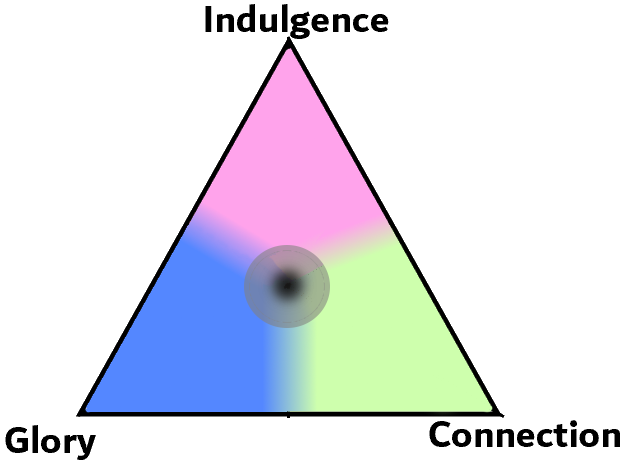
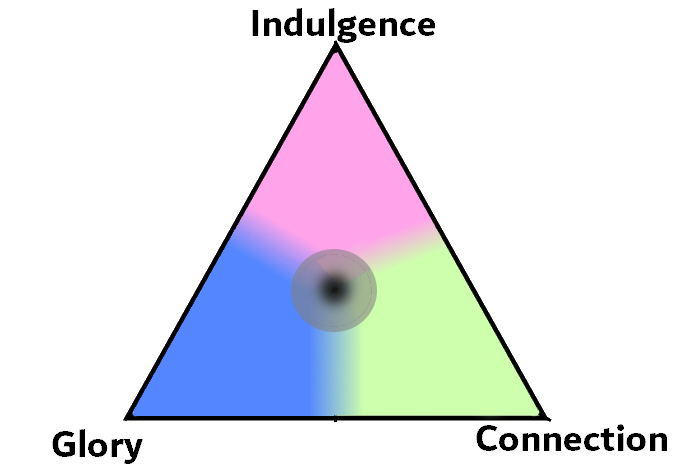
Blog edits, image additions.

Changed region(s): [[0.0, 0.0, 1.0, 0.9978]]

diff --git a/docs/noteworthy.html b/docs/noteworthy.html
@@ -47,7 +47,8 @@ comments: false
 
 <a class="highlight-card" href="http://dmo.github.com/HVM/">
   <h3 class="highlight-item-title">Stumbled Upon HVM...</h3>
-  <p class="highlight-item-description">These may look like hieroglyphics right now, but trust when I say you'll want to understand them eventually.</p>
+  <img class="highlight-image" src="/assets/img/succ-combinator.jpg" alt="Interaction Net of Succesor using I-Combinators">
+  <p class="highlight-item-description">These may look like hieroglyphics right now, but trust when I say you'll want to understand them eventually, CS-doers!</p>
 </a>
 
 <a class="highlight-card" href="http://dmo.github.com/projects/Student_Projects/student_proj/">

diff --git a/docs/_sass/klise/_layout.scss b/docs/_sass/klise/_layout.scss
@@ -216,11 +216,13 @@
   }
 
   .author-name {
+    font-family: $mono-family;
     font-size: 1.7em;
     margin-bottom: 2px;
   }
 
   .author-bio {
+    font-family: $mono-family;
     margin: 0 auto;
     opacity: 0.9;
     max-width: 393px;

diff --git a/docs/_posts/HVM/2025-08-20-HVM.md b/docs/_posts/HVM/2025-08-20-HVM.md
@@ -1,78 +1,45 @@
 ---
 layout: post
-title: "HVM, Interaction Combinators, and Symbolic AI: A New Obsession"
+title: "Data Driving"
 date: 2025-08-20 01:00 +0700
 #modified: 2020-03-03 16:49:47 +07:00
-tags: [AI, Symbolic, Learning, Jargon]
-description: Data-Driven AI is creating their magnum opus, but a new set of discoveries may soon put symbolic AI back in people's visions of future thinking machines.
+tags: [AI, Data-Driven, Jargon]
+description: Data-Driven AI is creating their magnum opus, but according to Altman himself, there is a bubble ready to burst.
 image: 
 ---
 
-As of writing, GPT5 had finally been released. Before its release, a great many theorized about its future capabilities, of the jobs that would be on the line and the bright future we were headed to. Sam Altman even had the confidence to post a photo of the death star looming over a planet, no doubt alluding to what was to come. Instead, OpenAI’s newest iteration was more about lowering costs, consolidating resources and shifting its personality, not terribly unfamiliar to its GPT 4.5 release. Modest improvements for each paying user, at most, and a terrific letdown by a great many. 
-	It’s not OpenAI’s fault. It’s not Meta’s fault, it’s not even the scientists working at the company’s fault. Ultimately, it’s the very nature of data-driven models.
-	Time to get a bit technical.
-(image)
-	Data driven models are, by the name suggests, trained off of data. With machine learning as a whole, the concept is that given properly labelled data, that patterns and trends in any set of data invisible (or visible) to the human eye and mind can be identified and used to predict future datapoints, assuming there exists patterns and trends to latch onto. More technically, these systems operate by optimizing mathematical functions (specifically loss functions) over billions or even trillions of examples. A neural network is adjusted via gradient descent until it produces outputs that best fit the input/output relationships found in its training data. 
+# Driving with Data
+As of writing, GPT5 had finally been released. Before this day, a great many theorized about its future capabilities, of the jobs that would be on the line and the bright future we were headed to. Sam Altman even had the confidence to post a photo of the death star looming over a planet, no doubt alluding to what was to come. Instead, OpenAI’s newest iteration was more about lowering costs, consolidating resources and shifting its personality, not terribly unfamiliar to its GPT 4.5 release. Modest improvements for each paying user, at most, and a terrific letdown by a great many. 
+
+![alt text](/assets/img/samastar.png)
+> I'd be lying if I said I wasn't excited to see what would come next as well. It truly is rare to have products generate anticipation in so many consumers!
+
+It’s not OpenAI’s fault. It’s not Meta’s fault, it’s not even the scientists working at the company’s fault. Ultimately, it’s the very nature of data-driven models.
+Time to get a bit technical.
+
+Data driven models are, by the name suggests, trained off of data. With machine learning as a whole, the concept is that given properly labelled data, that patterns and trends in any set of data invisible (or visible) to the human eye and mind can be identified and used to predict future datapoints, assuming there exists patterns and trends to latch onto. More technically, these systems operate by optimizing mathematical functions (specifically loss functions) over billions or even trillions of examples. A neural network is adjusted via gradient descent until it produces outputs that best fit the input/output relationships found in its training data. 
+
 Large Language Models (LLMs for short) are not much different. Transformers operate via sequential layers of attention mechanisms that determine which parts of the input data should influence which parts of the output^1.Rather than learning explicit rules about language, they learn statistical relationships between tokens—essentially, which words are likely to follow which other words, conditioned on context. It was a hunch that with sufficient scale, LLMs could learn enough to approximate what it means to reason and potentially transcend its own data, much like machine learning models attempt to, but pattern matching upon thought itself. 
-I do not believe there is a hard rule in the universe that suggests that one cannot inductively determine what a deductive or abductive mind would do in any given scenario. What is difficult is if you need training data, labelled or unlabelled, to do so. At its theoretical limits, an unassisted Large Language Model can only excel at what it has been trained to predict. This does not mean it cannot generate novel thoughts or sentences. Nor that it will not replace a great deal of our manual and intellectual labor. But in a meta-way, it cannot generalize.
-I will pos one example, a philosophical analysis and perhaps studies that conduct a more sophisticated test of these claims. But imagine you need to determine how to wash a strange dish. It is shaped like a square, but with two small square shaped holes parallel to each other on opposite sides. The item has a hollow shell and tends to have things trapped inside from the fish tank you pulled it out of. The holes are big enough to pass a teaspoon through, but not a tablespoon. How would one go about cleaning this?
+
+I do not believe there is a hard rule in the universe that suggests that one cannot inductively determine what a deductive or abductive mind would do in any given scenario. What is difficult is if you need training data, labelled or unlabelled, to do so. At its theoretical limits, an unassisted Large Language Model can only excel at what it has been trained to predict. This does not mean it cannot generate novel thoughts or sentences. Nor that it will not replace a great deal of our manual and intellectual labor. But in an important, and more physical than philosophical way, it cannot generalize.
+
+## Square Hole; Data-Driven Peg
+
+I will pose one example, a philosophical analysis and perhaps studies that conduct a more sophisticated test of these claims. But imagine you need to determine how to wash a strange dish. It is shaped like a square, but with two small square shaped holes parallel to each other on opposite sides. The item has a hollow shell and tends to have things trapped inside from the fish tank you pulled it out of. The holes are big enough to pass a teaspoon through, but not a tablespoon. How would one go about cleaning this?
 An LLM would actually have no problem answering this question. Such a scenario is not particularly unique; cleaning unorthodox objects is a notorious complication in industry and home life. But what about a transformer-trained robot? And why would these two be different?
 
-Square Hole; Data-Driven Peg
-	In order to determine how to clean a peculiar object, you must know what it means to clean an object. This technically depends on the individual and scenario; many believe that water and friction are good enough for many scenarios. So long as no particulates are visible, the dish is cleaned. The gold standard in households is soap and water, but more disaster states sometimes require bleach or other hard chemicals. For a fish tank, hard chemicals are ill-advised if it is to return to a fish tank, opting for vinegar and water.
+In order to determine how to clean a peculiar object, you must know what it means to clean an object. This technically depends on the individual and scenario; many believe that water and friction are good enough for many scenarios. So long as no particulates are visible, the dish is cleaned. The gold standard in households is soap and water, but more disaster states sometimes require bleach or other hard chemicals. For a fish tank, hard chemicals are ill-advised if it is to return to a fish tank, opting for vinegar and water.
 
 Now, ChatGPT has quite the advantage here. Ultimately, the solution for problems like these exist across the net. For the robot, these are maneuvers that may never have occurred before, or with the context of this object. Which means any data-driven model attempting to solve this has to either:
-Learn what it means to clean objects
-Be taught what it means to clean this object.
+- Learn what it means to clean objects
+- Be taught what it means to clean this object.
 
 The former is a general pattern match and rule-based conceptual system of dishwashing that suggests the model has not confused the forest for the trees, and that dishwashing is a thing it fully understands, with or without specific examples.
+
 The latter suggests its neurons fizzle out on sufficiently unique cases, having only learned the similarities between scenarios of washing dishes, rather than its conceptual foundation and requires more examples to learn.
-	As I currently understand it, there is no reason that scenario 1 cannot occur. It is hard to wrap one’s head around and we don’t have the right architecture yet, but it could be possible. LLMs specifically have not accomplished this yet, this is certain. This is most clear with mathematics, as the rules are foundational enough for calculators to never fail, but even accounting for statistical variance of LLMs, it is clear that the abstract concept of arithmetic has not been derived through training alone. The same pattern appears in domains like storytelling or humor, where LLMs can imitate surface forms but often lack the deep coherence or self-reflection that true conceptual mastery would produce. Robots built off of transformers today will fail to clean a great many dishes.
-	Put simply, LLMs, by their nature, fail at two particular tasks: deduction and abduction, something us humans can accomplish rather plainly and effectively. These resources describe them in great detail, but without them: they are defined as the propensity to follow a rule-based logic system to derive facts, and an ability to generate probable post-hoc rationalizations for a given scenario, respectively. The consequences of such are better elaborated here, but I digress. If we grant that this is both a big deal, and currently unsolved, what do I pose? The better question is what have I discovered…
+
+As I currently understand it, there is no reason that scenario 1 cannot occur. It is hard to wrap one’s head around and we don’t have the right architecture yet, but it could be possible. LLMs specifically have not accomplished this yet, this is certain. This is most clear with mathematics, as the rules are foundational enough for calculators to never fail, but even accounting for statistical variance of LLMs, it is clear that the abstract concept of arithmetic has not been derived through training alone. The same pattern appears in domains like storytelling or humor, where LLMs can imitate surface forms but often lack the deep coherence or self-reflection that true conceptual mastery would produce. Robots built off of transformers today will fail to clean a great many dishes.
+
+Put simply, LLMs, by their nature, fail at two particular tasks: deduction and abduction, something us humans can accomplish rather plainly and effectively. These resources describe them in great detail, but without them: they are defined as the propensity to follow a rule-based logic system to derive facts, and an ability to generate probable post-hoc rationalizations for a given scenario, respectively. The consequences of such are better elaborated here, but I digress. If we grant that this is both a big deal, and currently unsolved, what do I pose? [The better question is what have I discovered…]()
 	
 
-Realization
-Computers and computation have been a series of discoveries compared to magic in fantasy worlds, with how much we have changed our lives by them, and how it continues to elude us. If we divide how we go about computing, it would likely look like this chart.
-
-Physical Layer
-Low Level Representation
-Computation Models
-Computer Programming
-Systems & Applications
-
-
-Formal computation models had an optimal computation method for decades that have gone under-utilized: interaction networks. Until recently, there have been few, if any, proper implementations that avoided tremendous overhead. A man in Brazil who calls himself Victor Taelin implemented a virtual machine that limited overhead and allowed for the optimal properties to shine, known as Higher Order Virtual Machine.  
-
-Toying around with the tool gave me some extremely valuable insights, and an understanding of why Higher Order Co, and arguably every autonomous AI company, finds Interaction networks so powerful. 
-
-Without knowing everything there is to know, the main innovations of note are an alternative to lambda calculus that allows for inherent memoization of all computations to never share work, and superpositions, which allows for an input to exist as two states simultaneously, achieving the work of both on call. 
-
-Let’s look at some toy examples.
-The NAND Gate Synthesizer 
-Image
-This program is an automatic circuit builder. It takes a target circuit, tries every possible arrangement, tests them all, and returns the first circuit that works exactly the same as the target. 
-
-More concretely, a visual:
-
-IN0,IN1 and IN2 all represent an input, arriving from either another NAND gate or x and y. Any input represents either a 0 or a 1. The main idea is to have x and y static, representing a zero or a 1, and with both inserted into static positions of any generated circuit containing combinations of logic gates (in this case NAND), will provide an output of 0 or 1 with a dedicated truth table.
-
-
-We want a circuit that, with minimal gates, accomplishes this configuration. Depending on the allowed depth , solving this problem can be rather prohibitive. Why? Because the search space grows explosively. After all, something like this would grow at a rate of n^2 variables per gate, with at most 2 additional gates per gate. Depth limit prohibits this from going off the deep end.
-
-(Image)
-To be clear, enumerating all of the solutions would be infinite with many, many redundant solutions. Normally, in, say, Haskell, preventing the duplication of solutions requires quite a fair amount of overhead and communication. Not to mention that much of the same work could be duplicated through each enumeration. State of the art solutions, depending on the level of complexity allowable, bypasses this through clever SAT/SMT solutions to limit redundancy and cut down on the space of potential answers efficiently. 
-But with Interaction Combinators, both processes are inherent in its architecture.
-Below is an implementation that provides a solution in x seconds with a maximum depth of y in Haskell. It utilizes basic memoization methods, reusing whatever sub-expressions it can without using a SAT.
-
-Here is a SAT solution stats with the same conditions
-(Image)
-And here is HVM, or the I-Net solution.
-(Image)
-	
-The code for this program is supplied in my github, written directly into HVM. 
-
-Imagine HVM as this NAND gate system. Imagine the electricity flowing through each node, to get to the end (or not when cut off). HVM’s architecture is much like it, ultimately: when a program is developed, a graph of all of the functions and used variable is created, and when one function utilizes pieces of another, or a variable used once before, it travels through the same set of nodes, automatically memoizing the process without much of any legwork. And when dimensions of answers need to be eliminated or a graph has run its course, an ‘Erase’ node is introduced, causing the graph to never traverse the path again. This has the same effect as eliminating redundancy through SATs, but inherent in the computation method. This, by definition of Turing Completeness, is indeed possible in lambda calculus, but with far more overhead, as shown in the runtimes and the need for SATs, also by definition. This is why HVM beats any other tool in runtimes. The more complex the problem, the more easily HVM and future tools like it will win out.
-
-	If another example for enumeration and heuristic search is desired, I wrote up a knapsack solver in HVM as well, with impressive runtimes. It does not beat SOTA, since they tend to use various tricks to solve this problem, but an equivalently complex solution properly utilizing HVM’s superpositions and inherent memoization will theoretically surpass it as well.
-
-The potential for computation models like HVM to aid AI planning, theorem proving, and heuristic search appears substantial. Most interesting to me is how these properties potentially make it easier to construct complex reasoning systems without the heavy engineering effort of prior. My broader question is whether the same principles can help us build symbolic AI systems that match or complement data-driven models in flexibility and speed. I personally suspect so, and had thus marked my infatuation with a particular niche of computer science.

diff --git a/docs/_projects/Sym_Knack/HVM_Knack_Circc.md b/docs/_projects/Sym_Knack/HVM_Knack_Circc.md
@@ -1,0 +1,60 @@
+---
+layout: post
+title: "[WIP] HVM, Interaction Combinators, and Symbolic AI"
+date: 2025-08-21 01:00 +0700
+#modified: 2020-03-03 16:49:47 +07:00
+tags: [AI, Symbolic, Learning, Jargon]
+description: Data-Driven AI is creating their magnum opus, but a new set of discoveries may soon put symbolic AI back in people's visions of future thinking machines.
+image: "/assets/img/succ-combinator.jpg"
+---
+
+
+# Realization
+Computers and computation have been a series of discoveries compared to magic in fantasy worlds with how much we have changed our lives by them, and how its true inner workings continues to elude us. If we divide how we go about computing, it would likely look like this:
+
+- Physical Layer
+- Low Level Representation
+- Computation Models
+- Computer Programming
+- Systems & Applications
+
+
+Formal computation models had an optimal computation method for decades that have gone under-utilized: interaction networks. Until recently, there have been few, if any, proper implementations that avoided tremendous overhead. A man in Brazil who calls himself Victor Taelin implemented a virtual machine that limited overhead and allowed for the optimal properties to shine, known as Higher Order Virtual Machine.  
+
+Toying around with the tool gave me some extremely valuable insights, and an understanding of why Higher Order Co, and arguably every autonomous AI company, finds Interaction networks so powerful. 
+
+Without knowing everything there is to know, the main innovations of note are an alternative to lambda calculus that allows for inherent memoization of all computations to never share work, and superpositions, which allows for an input to exist as two states simultaneously, achieving the work of both on call. 
+
+Let’s look at some toy examples.
+
+# The NAND Gate Synthesizer 
+Image
+This program is an automatic circuit builder. It takes a target circuit, tries every possible arrangement, tests them all, and returns the first circuit that works exactly the same as the target. 
+
+More concretely, a visual:
+
+IN0,IN1 and IN2 all represent an input, arriving from either another NAND gate or x and y. Any input represents either a 0 or a 1. The main idea is to have x and y static, representing a zero or a 1, and with both inserted into static positions of any generated circuit containing combinations of logic gates (in this case NAND), will provide an output of 0 or 1 with a dedicated truth table.
+
+
+We want a circuit that, with minimal gates, accomplishes this configuration. Depending on the allowed depth , solving this problem can be rather prohibitive. Why? Because the search space grows explosively. After all, something like this would grow at a rate of n^2 variables per gate, with at most 2 additional gates per gate. Depth limit prohibits this from going off the deep end.
+
+(Image)
+To be clear, enumerating all of the solutions would be infinite with many, many redundant solutions. Normally, in, say, Haskell, preventing the duplication of solutions requires quite a fair amount of overhead and communication. Not to mention that much of the same work could be duplicated through each enumeration. State of the art solutions, depending on the level of complexity allowable, bypasses this through clever SAT/SMT solutions to limit redundancy and cut down on the space of potential answers efficiently. 
+
+But with Interaction Combinators, both processes are inherent in its architecture.
+Below is an implementation that provides a solution in x seconds with a maximum depth of y in Haskell. It utilizes basic memoization methods, reusing whatever sub-expressions it can without using a SAT.
+
+Here is a SAT solution stats with the same conditions
+(Image)
+And here is HVM, or the I-Net solution.
+(Image)
+	
+[The code for this program is supplied in my github, written directly into HVM.](https://github.com/MasterOfCrows/HVM_Enum)
+
+Imagine HVM as this NAND gate system. Imagine the electricity flowing through each node, to get to the end (or not when cut off). HVM’s architecture is much like it, ultimately: when a program is developed, a graph of all of the functions and used variable is created, and when one function utilizes pieces of another, or a variable used once before, it travels through the same set of nodes, automatically memoizing the process without much of any legwork. And when dimensions of answers need to be eliminated or a graph has run its course, an ‘Erase’ node is introduced, causing the graph to never traverse the path again. 
+
+This has the same effect as eliminating redundancy through SATs, but inherent in the computation method. This, by definition of Turing Completeness, is indeed possible in lambda calculus, but with far more overhead, as shown in the runtimes and the need for SATs, also by definition. This is why HVM beats any other tool in runtimes. The more complex the problem, the more easily HVM and future tools like it will win out.
+
+If another example for enumeration and heuristic search is desired, I wrote up a knapsack solver in HVM as well, with impressive runtimes. It does not beat SOTA, since they tend to use various tricks to solve this problem, but an equivalently complex solution properly utilizing HVM’s superpositions and inherent memoization will theoretically surpass it as well.
+
+The potential for computation models like HVM to aid AI planning, theorem proving, and heuristic search appears substantial. Most interesting to me is how these properties potentially make it easier to construct complex reasoning systems without the heavy engineering effort of prior. My broader question is whether the same principles can help us build symbolic AI systems that match or complement data-driven models in flexibility and speed. I personally suspect so, and had thus marked my infatuation with a particular niche of computer science.

diff --git a/docs/about.md b/docs/about.md
@@ -2,10 +2,9 @@
 title: Hello There
 permalink: /about/
 layout: page
-excerpt: Hello peeps, I'm student of computer science from Banyuwangi, living in Jogjakarta. This blog for documentation about my programming journey, running on jekyll, hosting on netlify and using my own simple theme.
+excerpt: I'm Diallo, a graduate from Rensselaer Polytechnic Institute who studied Biomedical Engineering while concentrating in Data Science..
 comments: false
 ---
-![metwo](/assets/img/metwo.jpg)
 
 I'm Diallo, a graduate from Rensselaer Polytechnic Institute who studied Biomedical Engineering while concentrating in Data Science. Since High School, an  insatiable desire for knowledge and problem solving have and will lead me across many fields of interest.
 
@@ -13,7 +12,7 @@ All in an attempt to better understand the world and one day lead a team of amaz
 
 **When you're going to change the world, don't ask for permission.**
 
-If you have any questions about any of my writings or work, feel free to email me with the information below. 
+If you have any questions about any of my writings or work, feel free to email me or reach out on X. 
 
 **With Courage ✨**
 
